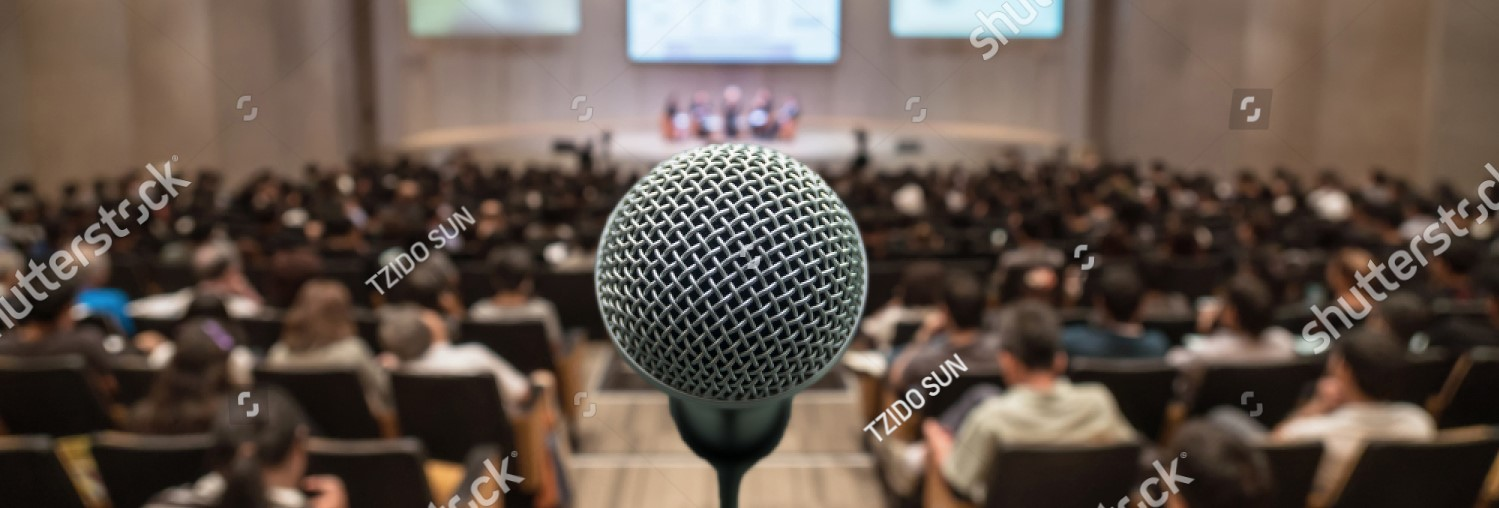
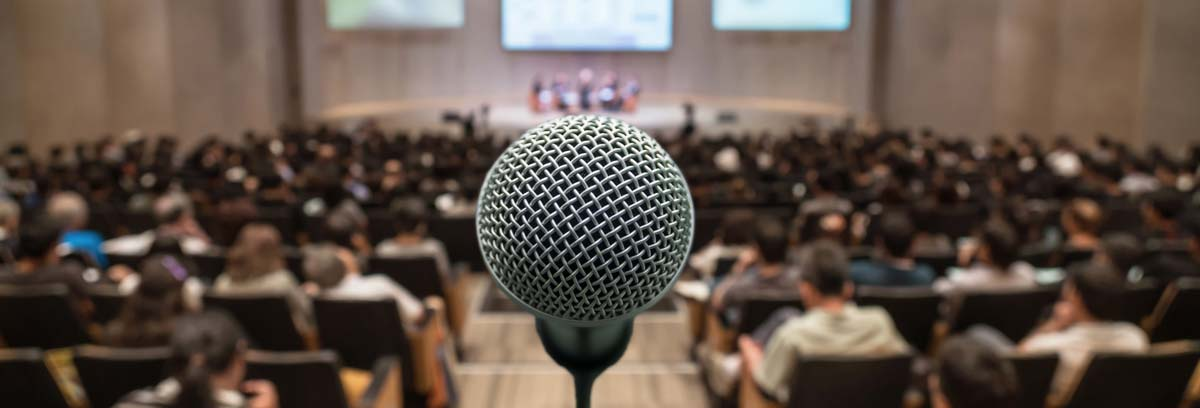
update watermarked image, add testimonials to nav and tweak behavior to fit additional item

diff --git a/src/components/Navigation/Navigation.scss b/src/components/Navigation/Navigation.scss
@@ -1,12 +1,18 @@
 @use "../../styles/partials/variables.scss" as *;
+@use "../../styles/partials/mixins.scss" as *;
 
 .nav {
   &__list {
     color: $text-light;
     list-style: none;
     display: flex;
-    gap: 2rem;
     justify-content: space-between;
+    gap: 1.5rem;
+    padding: 0 1rem;
+    transition: gap 1s;
+    @include desktop {
+      gap: 2rem;
+    }
   }
   &__list-item {
     text-transform: capitalize;

diff --git a/src/components/NavigationMobile/NavigationMobile.jsx b/src/components/NavigationMobile/NavigationMobile.jsx
@@ -39,6 +39,11 @@ const NavigationMobile = () => {
             </Link>
           </li>
           <li className="mobile-nav__list-item">
+            <Link to="/testimonials" className="mobile-nav__link">
+              testimonials
+            </Link>
+          </li>
+          <li className="mobile-nav__list-item">
             <Link to="/contact" className="mobile-nav__link">
               contact
             </Link>

diff --git a/src/components/Navigation/Navigation.jsx b/src/components/Navigation/Navigation.jsx
@@ -21,6 +21,11 @@ const Navigation = () => {
           </Link>
         </li>
         <li className="nav__list-item">
+          <Link to="/testimonials" className="nav__link">
+            testimonials
+          </Link>
+        </li>
+        <li className="nav__list-item">
           <Link to="/contact" className="nav__link">
             contact
           </Link>

diff --git a/src/components/Footer/Footer.scss b/src/components/Footer/Footer.scss
@@ -23,7 +23,7 @@
   }
   &__element {
     @include desktop {
-      width: 20rem;
+      width: 30rem;
     }
     &--nav {
       order: 2;
